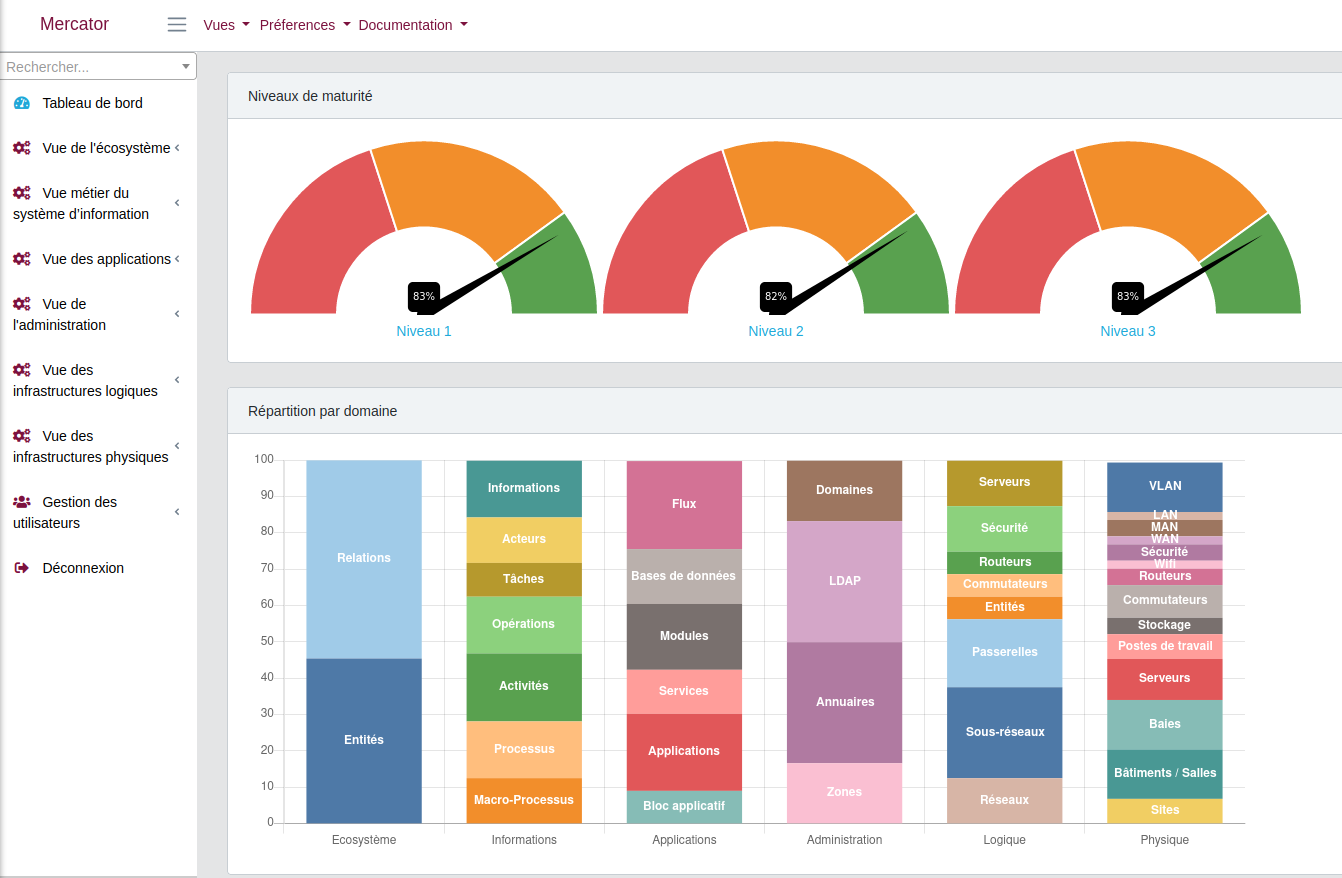
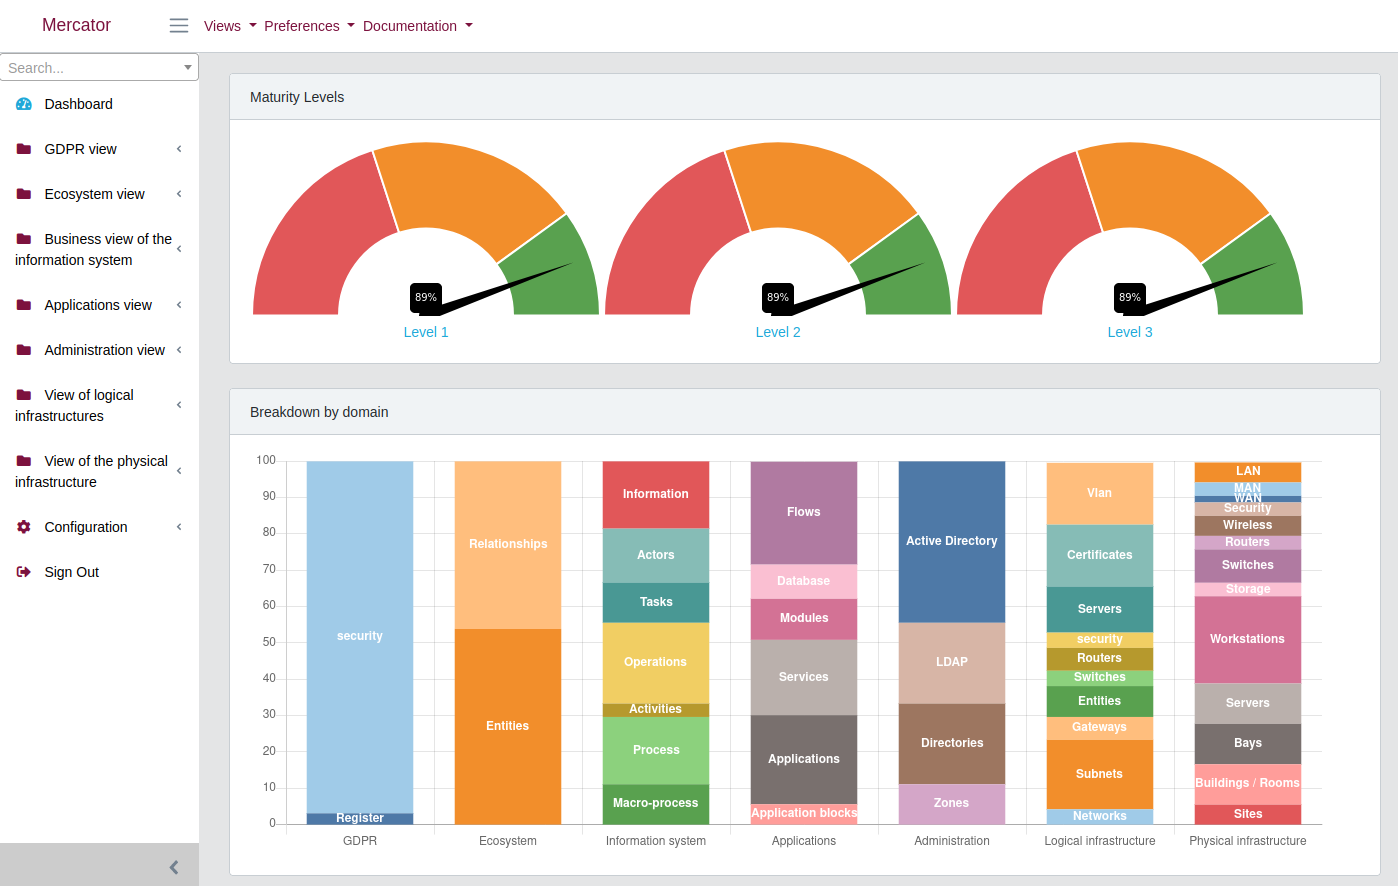
Deployed 5bf59d6 with MkDocs version: 1.4.2

diff --git a/application.fr/index.html b/application.fr/index.html
@@ -110,7 +110,7 @@
 <li class="i18n-link i18n-link-found i18n-link-en"><a href="../application/">English</a></li>
 </ul>
 <h2 id="application">Application</h2>
-<p><a href="/mercator/images/homepage.png"><img src="/mercator/images/homepage.png" width="600"></a></p>
+<p><a href="/mercator/images/homepage.fr.png"><img src="/mercator/images/homepage.fr.png" width="600"></a></p>
 <h3 id="page-principale">Page principale</h3>
 <p>La page principale est divisée en trois parties :</p>
 <ul>
@@ -120,11 +120,11 @@
 <ul>
 <li>La répartition des objet de la cartographie par domaine </li>
 </ul>
-<p><a href="/mercator/images/repartition.png"><img src="/mercator/images/repartition.png" width="600"></a></p>
+<p><a href="/mercator/images/repartition.fr.png"><img src="/mercator/images/repartition.fr.png" width="600"></a></p>
 <ul>
 <li>La carte proportionnelle globale des objets de la cartographie</li>
 </ul>
-<p><a href="/mercator/images/treemap.png"><img src="/mercator/images/treemap.png" width="600"></a></p>
+<p><a href="/mercator/images/treemap.fr.png"><img src="/mercator/images/treemap.fr.png" width="600"></a></p>
 <p>Chaque élément est sélectionnable et donne accès à la liste des objets de la cartographie sélectionnées.</p>
 <h3 id="les-menus">Les menus</h3>
 <ul>

diff --git a/model.fr/index.html b/model.fr/index.html
@@ -228,7 +228,7 @@
 <li class="i18n-link i18n-link-found i18n-link-en"><a href="../model/">English</a></li>
 </ul>
 <h2 id="modele-de-donnees">Modèle de données</h2>
-<p><a href="/mercator/images/model.png"><img src="/mercator/images/model.png" width="700"></a></p>
+<p><a href="/mercator/images/model.fr.png"><img src="/mercator/images/model.fr.png" width="700"></a></p>
 <h3 id="vue-du-rgpd">Vue du RGPD</h3>
 <p>La vue du RGPD contient l'ensemble des données nécessaires au maintient du registre des traitements et fait le lien avec les processus, applications et informations utilisées par le système d'information. </p>
 <p>Cette vue permet de remplir les obligations prévues à l’article 30 du RGPD.</p>

diff --git a/index.html b/index.html
@@ -172,5 +172,5 @@ from <a href="https://www.ssi.gouv.fr/en/">ANSSI</a>.</p>
 
 <!--
 MkDocs version : 1.4.2
-Build Date UTC : 2023-07-05 10:47:52.945732+00:00
+Build Date UTC : 2023-07-05 11:19:19.710393+00:00
 -->
